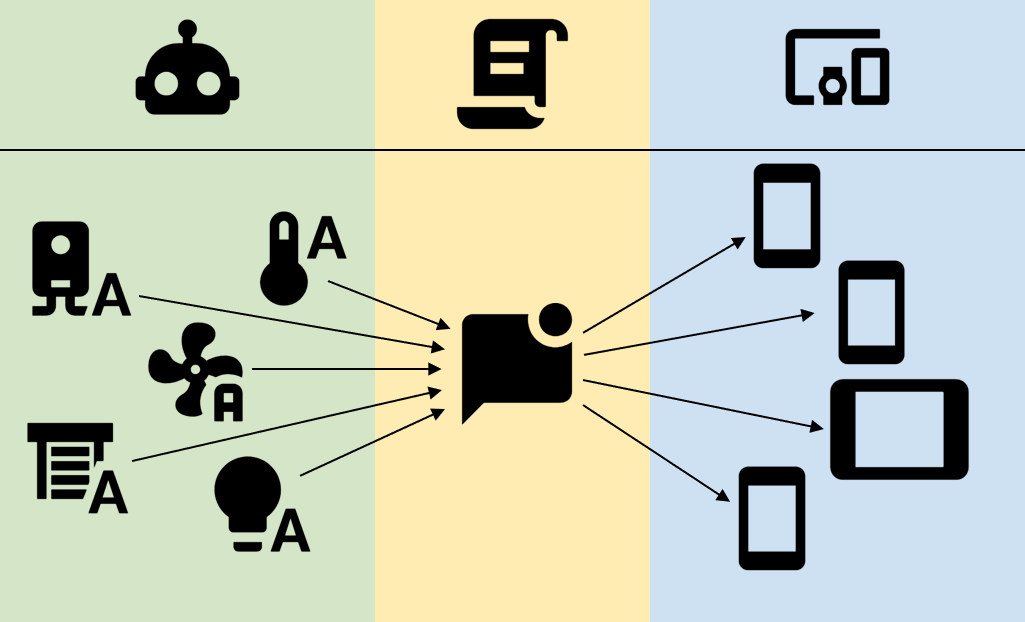
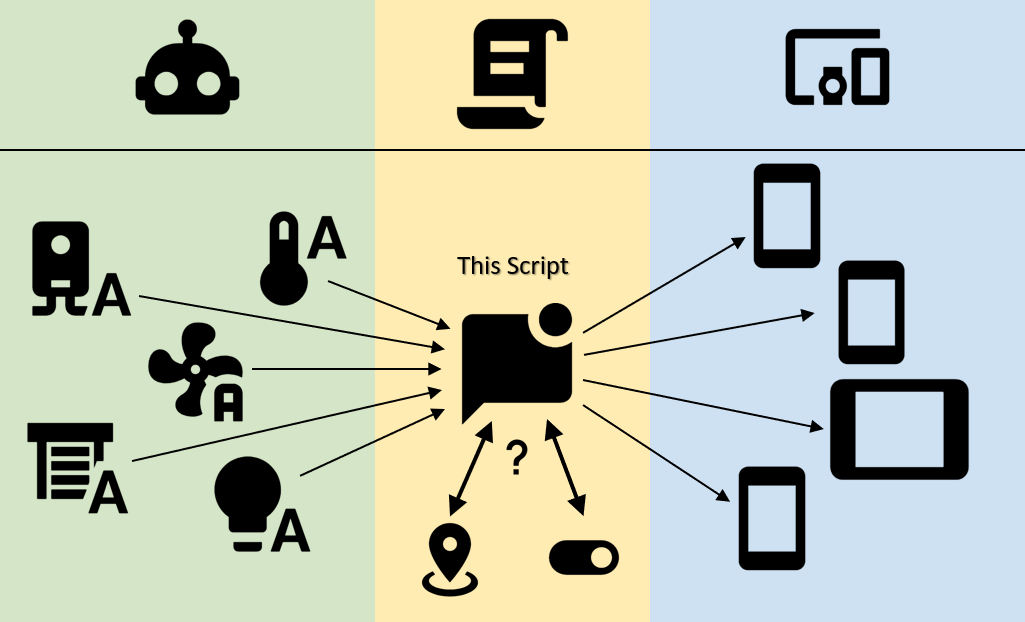
Readme

diff --git a/README.md b/README.md
@@ -1,1 +1,19 @@
-# Home-Assistant-snippets
+# My Smart-Home stuff
+
+Hi all,  
+I'm sharing my stuff that accumulated over the past months and years. This includes the following things:
+
+1. **[Custom flexible Notification](Custom-flexible-Notification)**  
+   A Home Assistant blueprint, creating a script to manage [Mobile Notifications](https://companion.home-assistant.io/docs/notifications/notifications-basic) for the Home Assistant Companion App in order to distribute your push-notifications, based on:
+   - zones the selected device is in 
+   - an input-switch to turn off notifications temporary
+2. **[NINA Warnings](NINA-Warnmeldungen)**  
+   For sensors from the [NINA Integration](https://www.home-assistant.io/integrations/nina/): 
+   - A Home Assistant blueprint, to **create mobile push-notifications**, based on the severity of the Warning.
+   - A markdown-card to provide the warnings via the **Home Assistant Lovelace UI**.
+
+
+
+<br>
+
+> **NOTE**: This repository and the containing images are using [Material Design Icons](https://pictogrammers.com/library/mdi/).
